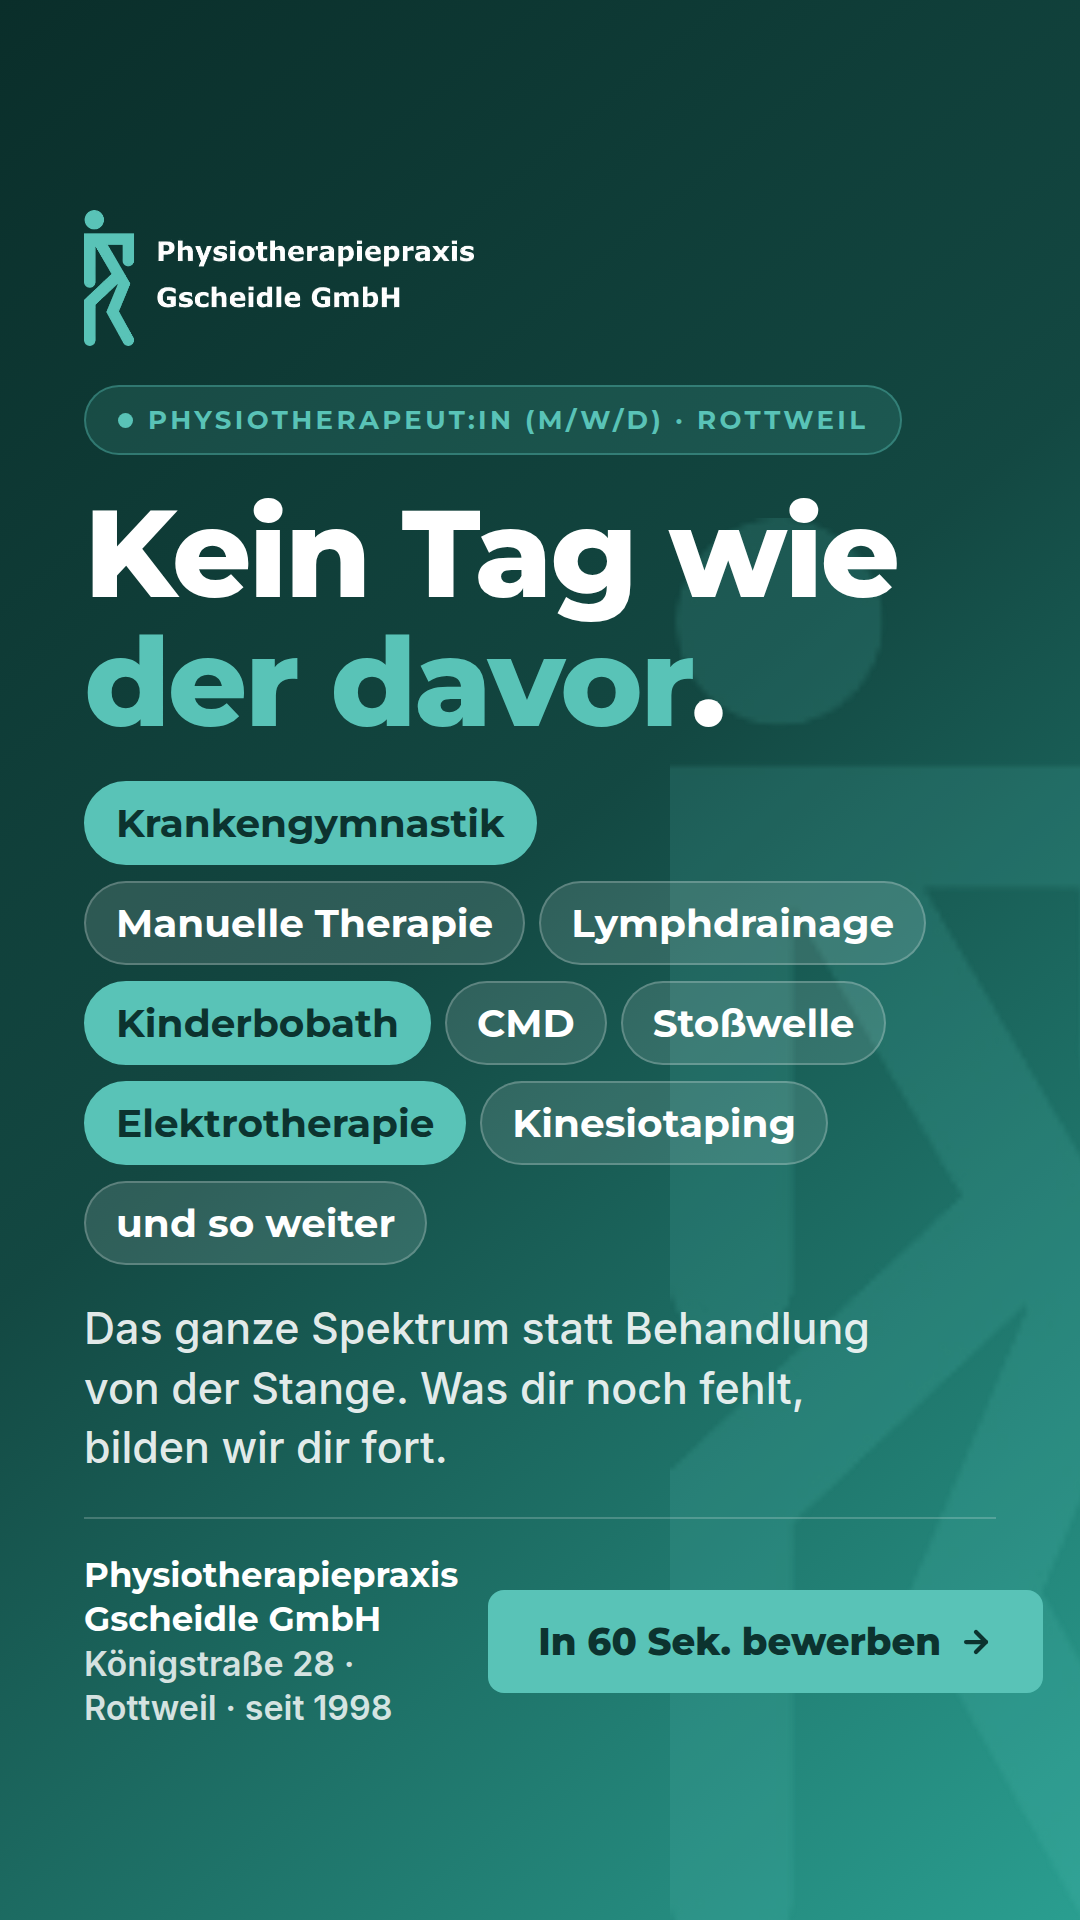
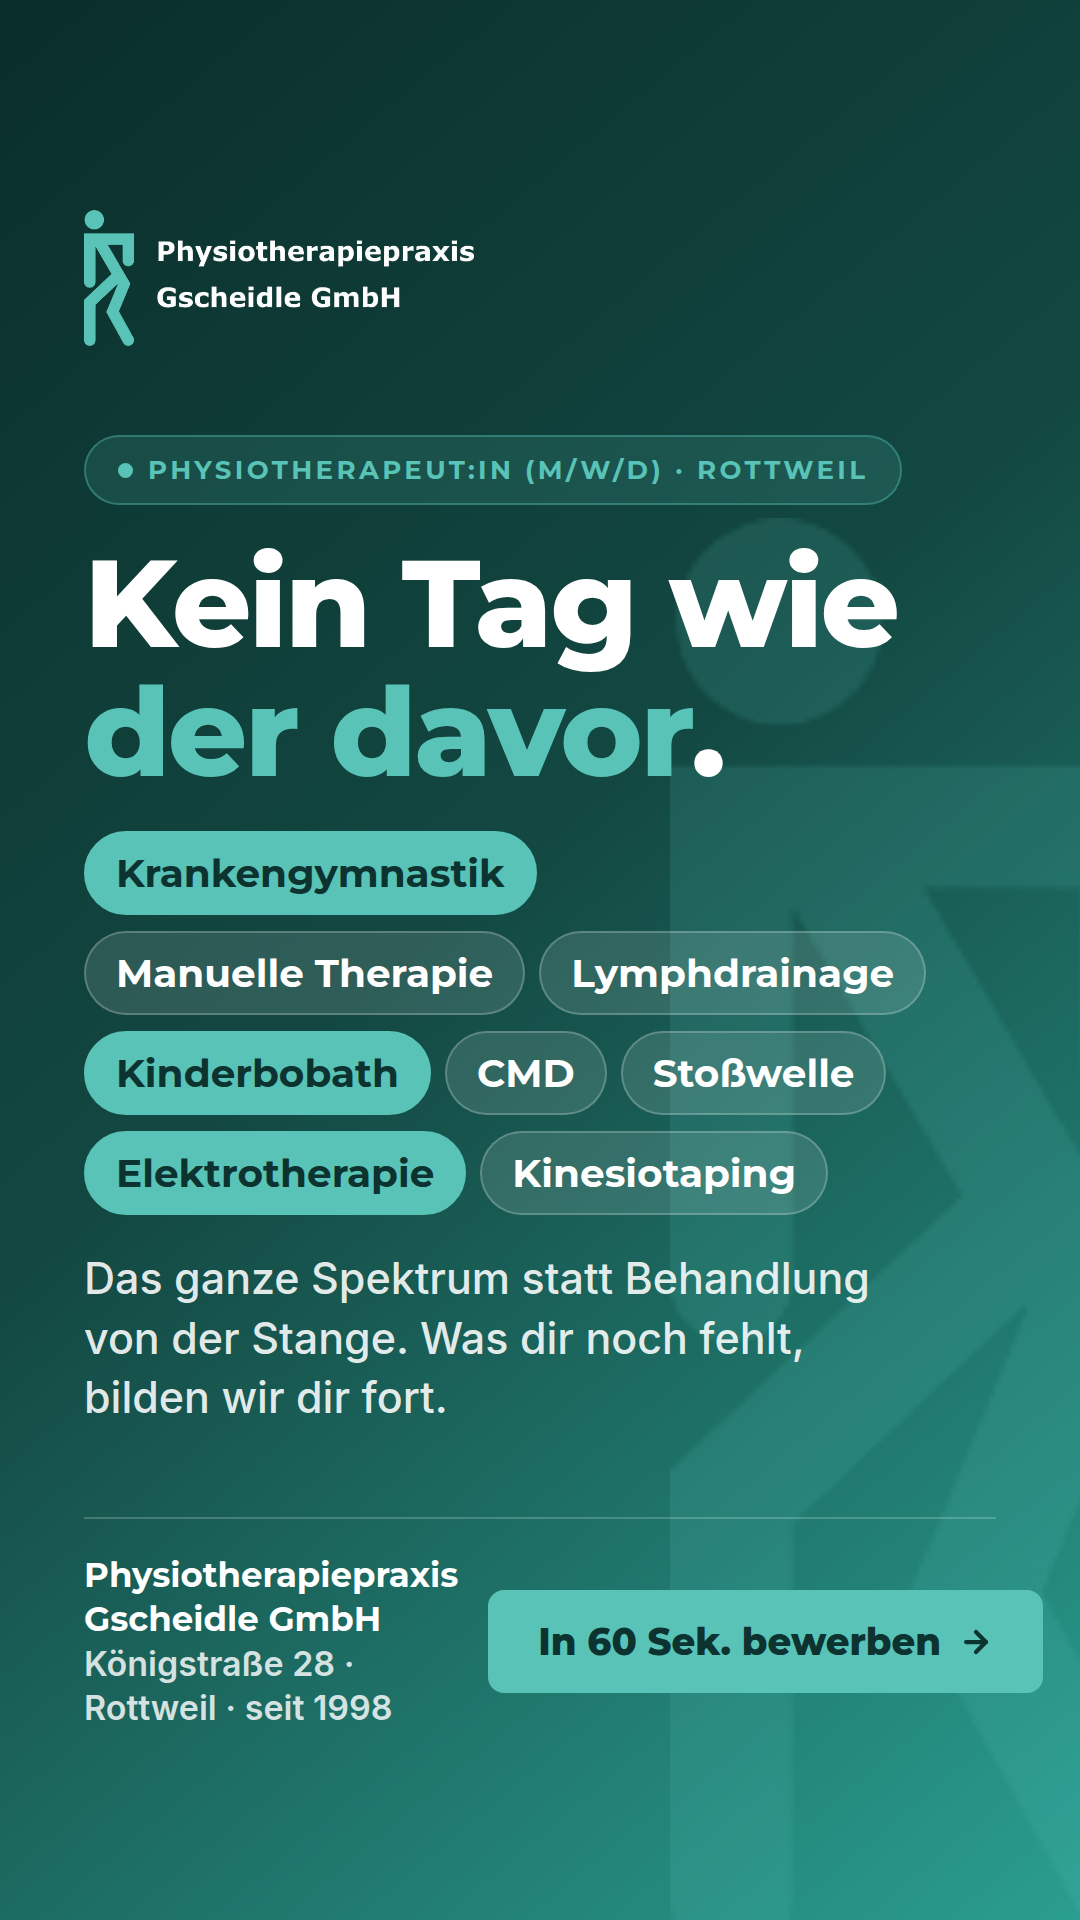
Fuellfloskeln raus, Stosswelle keine Voraussetzung, Dienstwagen auch privat
"Und so weiter" ist ueberall gestrichen: in der Stellenbeschreibung, in
den JobPosting-Daten und als Chip im Motiv spektrum.

Stosswellentherapie steht nicht mehr im Anforderungsprofil. Sie wird vor
Ort gezeigt und muss nicht mitgebracht werden. Im Behandlungsspektrum
bleibt sie als Leistung der Praxis.

Der Dienstwagen bekommt eine eigene, hervorgehobene Kachel ueber der
Benefit-Reihe: volle Breite, CI-Verlauf, Badge "auch privat" und im Text
ausdruecklich "auch zur privaten Nutzung - nicht nur fuer Termine". Er
ist damit keine Moeglichkeit mehr, sondern eine Zusage; entsprechend
auch in der Stellenbeschreibung, in Schritt 4 des Formulars und in den
Werbetexten. Mit der breiten Kachel gehen die uebrigen sechs wieder als
zwei volle Dreierreihen auf, die Sonderregel fuer die einzelne Kachel in
der letzten Reihe entfaellt.

Claude-Session: https://claude.ai/code/session_01LtBBjQMCSQX7tc7qtC8CYr

Changed region(s): [[0.0611, 0.1875, 0.8556, 0.7812]]

diff --git a/index.html b/index.html
@@ -29,7 +29,7 @@
   "@context": "https://schema.org",
   "@type": "JobPosting",
   "title": "Physiotherapeut:in (m/w/d)",
-  "description": "Die Physiotherapiepraxis Gscheidle GmbH in Rottweil sucht eine:n Physiotherapeut:in (m/w/d) in Voll- oder Teilzeit. Befundaufnahme und eigenverantwortliche Therapieplanung, Behandlung in Krankengymnastik, Manueller Therapie, Manueller Lymphdrainage und so weiter, Hausbesuche nach Absprache. Unbefristete Festanstellung, keine Wochenenddienste, Fortbildungen werden nach Absprache bezahlt.",
+  "description": "Die Physiotherapiepraxis Gscheidle GmbH in Rottweil sucht eine:n Physiotherapeut:in (m/w/d) in Voll- oder Teilzeit. Befundaufnahme und eigenverantwortliche Therapieplanung, Behandlung in Krankengymnastik, Manueller Therapie und Manueller Lymphdrainage, Hausbesuche nach Absprache. Unbefristete Festanstellung, keine Wochenenddienste, Fortbildungen werden nach Absprache bezahlt.",
   "datePosted": "2026-09-24",
   "employmentType": ["FULL_TIME", "PART_TIME"],
   "hiringOrganization": {
@@ -187,6 +187,14 @@ section{padding:88px 0}
 .benefit__ic svg{width:23px;height:23px;stroke:var(--brand)}
 .benefit b{display:block;font-family:var(--f-display);font-weight:700;font-size:17.5px;color:var(--brand-800);margin-bottom:8px}
 .benefit p{color:var(--ink-soft);font-size:15px}
+/* Hervorgehobene Kachel: volle Breite, CI-Verlauf – fuer den Dienstwagen. */
+.benefit--hero{grid-column:1/-1;background:var(--grad);border-color:transparent;display:flex;align-items:center;gap:26px;padding:30px 34px}
+.benefit--hero .benefit__ic{margin-bottom:0;flex:0 0 auto;width:58px;height:58px;background:rgba(89,195,183,.20)}
+.benefit--hero .benefit__ic svg{stroke:var(--mint);width:29px;height:29px}
+.benefit--hero b{color:#fff;font-size:21px;display:block;margin-bottom:7px}
+.benefit--hero p{color:rgba(255,255,255,.90);font-size:16px;max-width:760px}
+.benefit--hero p b{display:inline;font-size:inherit;margin:0;color:#fff}
+.benefit__pill{display:inline-block;font-family:var(--f-body);font-size:13px;font-weight:700;letter-spacing:.05em;text-transform:uppercase;color:var(--brand-900);background:var(--mint);border-radius:999px;padding:4px 12px;vertical-align:middle;margin-left:4px}
 
 /* ---------- ablauf ---------- */
 .process{background:#fff}
@@ -297,10 +305,6 @@ footer{background:var(--brand-900);color:rgba(255,255,255,.76);padding:56px 0 26
 .reveal.is-in{opacity:1;transform:none}
 
 /* ---------- responsive ---------- */
-/* Sieben Kacheln in drei Spalten lassen eine allein stehen – die wird mittig gesetzt. */
-@media (min-width:981px){
-  .benefit-grid > .benefit:last-child:nth-child(3n+1){grid-column:2}
-}
 @media (max-width:980px){
   .job{grid-template-columns:1fr;gap:26px}
   .benefit-grid,.steps{grid-template-columns:repeat(2,1fr)}
@@ -324,6 +328,8 @@ footer{background:var(--brand-900);color:rgba(255,255,255,.76);padding:56px 0 26
   .benefit-grid,.steps,.footer__grid{grid-template-columns:1fr}
   .job{padding:24px 20px}
   .job__head{flex-direction:column;gap:14px}
+  .benefit--hero{flex-direction:column;align-items:flex-start;gap:16px;padding:26px 22px}
+  .benefit--hero b{font-size:19px}
   .form-card{border-radius:16px;margin-top:26px}
   .form-card__head{padding:18px 18px 0}
   .form-card__body{padding:18px 18px 22px}
@@ -457,8 +463,8 @@ footer{background:var(--brand-900);color:rgba(255,255,255,.76);padding:56px 0 26
           <h4>Deine Aufgaben</h4>
           <ul class="ticks">
             <li><b>Befund und Therapieplan</b> – eigenverantwortlich, am Menschen orientiert, nicht am Schema</li>
-            <li>Behandlung in <b>Krankengymnastik, Manueller Therapie, Manueller Lymphdrainage</b> und so weiter</li>
-            <li><b>Hausbesuche und Pflegeheime</b> in Rottweil und Umgebung – nach Absprache, nicht als Dauerauftrag. Ein <b>Geschäftswagen</b> dafür lässt sich einrichten</li>
+            <li>Behandlung in <b>Krankengymnastik, Manueller Therapie, Manueller Lymphdrainage</b></li>
+            <li><b>Hausbesuche und Pflegeheime</b> in Rottweil und Umgebung – nach Absprache, nicht als Dauerauftrag. Den <b>Dienstwagen</b> dafür stellen wir</li>
             <li>Kurze fachliche Absprachen im Team statt langer Dienstwege</li>
           </ul>
         </div>
@@ -468,7 +474,7 @@ footer{background:var(--brand-900);color:rgba(255,255,255,.76);padding:56px 0 26
           <ul class="ticks">
             <li><b>Pflicht:</b> abgeschlossene Ausbildung oder Studium als Physiotherapeut:in mit Berufszulassung in Deutschland</li>
             <li><b>Pflicht:</b> Deutsch mindestens auf Niveau B2 – du führst Patientengespräche und dokumentierst</li>
-            <li><b>Wünschenswert:</b> Zusatzqualifikationen wie MT, MLD, Bobath, KGG oder CMD – und Erfahrung mit Stoßwellentherapie</li>
+            <li><b>Wünschenswert:</b> Zusatzqualifikationen wie MT, MLD, Bobath, KGG oder CMD</li>
             <li><b>Wünschenswert:</b> Führerschein Klasse B für gelegentliche Hausbesuche</li>
             <li>Verlässlichkeit und Lust auf Abwechslung – kein Tag sieht bei uns aus wie der davor</li>
           </ul>
@@ -493,6 +499,13 @@ footer{background:var(--brand-900);color:rgba(255,255,255,.76);padding:56px 0 26
     <p class="sec-lead">Seit 1998 in Rottweil, gewachsen auf 7 Kolleg:innen. Wir behandeln in der Praxis, bei Hausbesuchen und in den Pflegeheimen der Region – mit dem vollen Spektrum statt Behandlung von der Stange.</p>
 
     <div class="benefit-grid">
+      <div class="benefit benefit--hero reveal">
+        <div class="benefit__ic"><svg viewBox="0 0 24 24" fill="none" stroke-width="1.8" stroke-linecap="round" stroke-linejoin="round"><path d="M5 17h14l-1.6-5.3A2 2 0 0 0 15.5 10h-7a2 2 0 0 0-1.9 1.7z"/><circle cx="7.5" cy="17.5" r="2"/><circle cx="16.5" cy="17.5" r="2"/><path d="M3 13h1M20 13h1"/></svg></div>
+        <div>
+          <b>Dienstwagen <span class="benefit__pill">auch privat</span></b>
+          <p>Für die Hausbesuche stellen wir dir einen Dienstwagen. Und der steht dir <b>auch zur privaten Nutzung</b> zur Verfügung – nicht nur für Termine.</p>
+        </div>
+      </div>
       <div class="benefit reveal">
         <div class="benefit__ic"><svg viewBox="0 0 24 24" fill="none" stroke-width="1.8" stroke-linecap="round" stroke-linejoin="round"><rect x="2" y="5" width="20" height="14" rx="2"/><circle cx="12" cy="12" r="3"/><path d="M6 12h.01M18 12h.01"/></svg></div>
         <b>Faire, pünktliche Vergütung</b>
@@ -517,11 +530,6 @@ footer{background:var(--brand-900);color:rgba(255,255,255,.76);padding:56px 0 26
         <div class="benefit__ic"><svg viewBox="0 0 24 24" fill="none" stroke-width="1.8" stroke-linecap="round" stroke-linejoin="round"><path d="M12 21s-7-4.4-9.3-8.6A5.5 5.5 0 0 1 12 6.2a5.5 5.5 0 0 1 9.3 6.2C19 16.6 12 21 12 21z"/></svg></div>
         <b>Das volle Spektrum</b>
         <p>KG, MT, MLD, Kinderbobath, CMD, Stoßwelle, Elektrotherapie, Kinesiotaping, Schröpfen, Dorn. Du bleibst fachlich in Bewegung.</p>
-      </div>
-      <div class="benefit reveal">
-        <div class="benefit__ic"><svg viewBox="0 0 24 24" fill="none" stroke-width="1.8" stroke-linecap="round" stroke-linejoin="round"><path d="M5 17h14l-1.6-5.3A2 2 0 0 0 15.5 10h-7a2 2 0 0 0-1.9 1.7z"/><circle cx="7.5" cy="17.5" r="2"/><circle cx="16.5" cy="17.5" r="2"/><path d="M3 13h1M20 13h1"/></svg></div>
-        <b>Geschäftswagen möglich</b>
-        <p>Für die Hausbesuche lässt sich ein Geschäftswagen einrichten – sprich uns im Gespräch einfach darauf an.</p>
       </div>
       <div class="benefit reveal">
         <div class="benefit__ic"><svg viewBox="0 0 24 24" fill="none" stroke-width="1.8" stroke-linecap="round" stroke-linejoin="round"><path d="M16 21v-2a4 4 0 0 0-4-4H6a4 4 0 0 0-4 4v2"/><circle cx="9" cy="7" r="4"/><path d="M22 21v-2a4 4 0 0 0-3-3.87"/><path d="M16 3.13a4 4 0 0 1 0 7.75"/></svg></div>
@@ -635,7 +643,7 @@ footer{background:var(--brand-900);color:rgba(255,255,255,.76);padding:56px 0 26
           <div class="fstep" data-step="4">
             <span class="reqtag reqtag--opt"><i></i>Wünschenswert</span>
             <h3>Hausbesuche – wärst du dabei?</h3>
-            <p class="hint">Pflegeheime in der Region gehören dazu – nach Absprache. Geschäftswagen möglich.</p>
+            <p class="hint">Pflegeheime in der Region gehören dazu – nach Absprache. Dienstwagen stellen wir.</p>
             <div class="choice-grid" data-field="hausbesuche" data-type="single">
               <label class="choice"><input type="radio" name="hausbesuche" value="Führerschein vorhanden, Hausbesuche gerne" data-ok="1" /><span class="key">A</span><span>Ja, gerne – Führerschein Klasse B vorhanden</span></label>
               <label class="choice"><input type="radio" name="hausbesuche" value="Führerschein vorhanden, Hausbesuche nach Absprache" data-ok="1" /><span class="key">B</span><span>Nach Absprache – Führerschein vorhanden</span></label>

diff --git a/creatives/index.html b/creatives/index.html
@@ -172,7 +172,7 @@ const MOTIVE = [
     name:'spektrum', theme:'t-dark',
     eyebrow:'Physiotherapeut:in (m/w/d) · Rottweil',
     h1:'Kein Tag wie <em>der davor</em>.',
-    terms:['Krankengymnastik','Manuelle Therapie','Lymphdrainage','Kinderbobath','CMD','Stoßwelle','Elektrotherapie','Kinesiotaping','und so weiter'],
+    terms:['Krankengymnastik','Manuelle Therapie','Lymphdrainage','Kinderbobath','CMD','Stoßwelle','Elektrotherapie','Kinesiotaping'],
     sub:'Das ganze Spektrum statt Behandlung von der Stange. Was dir noch fehlt, bilden wir dir fort.'
   },
   {

diff --git a/creatives/WERBETEXTE.md b/creatives/WERBETEXTE.md
@@ -19,7 +19,7 @@ dazwischenfunkt.
 > ✔ Montag bis Freitag, 07:00–19:00 Uhr – keine Wochenenddienste
 > ✔ Voll- oder Teilzeit, 20 bis 40 Stunden, unbefristet
 > ✔ Fortbildungen wie MT, MLD oder Bobath nach Absprache bezahlt
-> ✔ Geschäftswagen für die Hausbesuche möglich
+> ✔ Dienstwagen – auch zur privaten Nutzung
 >
 > Bewerben dauert unter 60 Sekunden: vier Fragen beantworten, Kontaktdaten hinterlassen, fertig. Kein Anschreiben, kein Lebenslauf.
 
